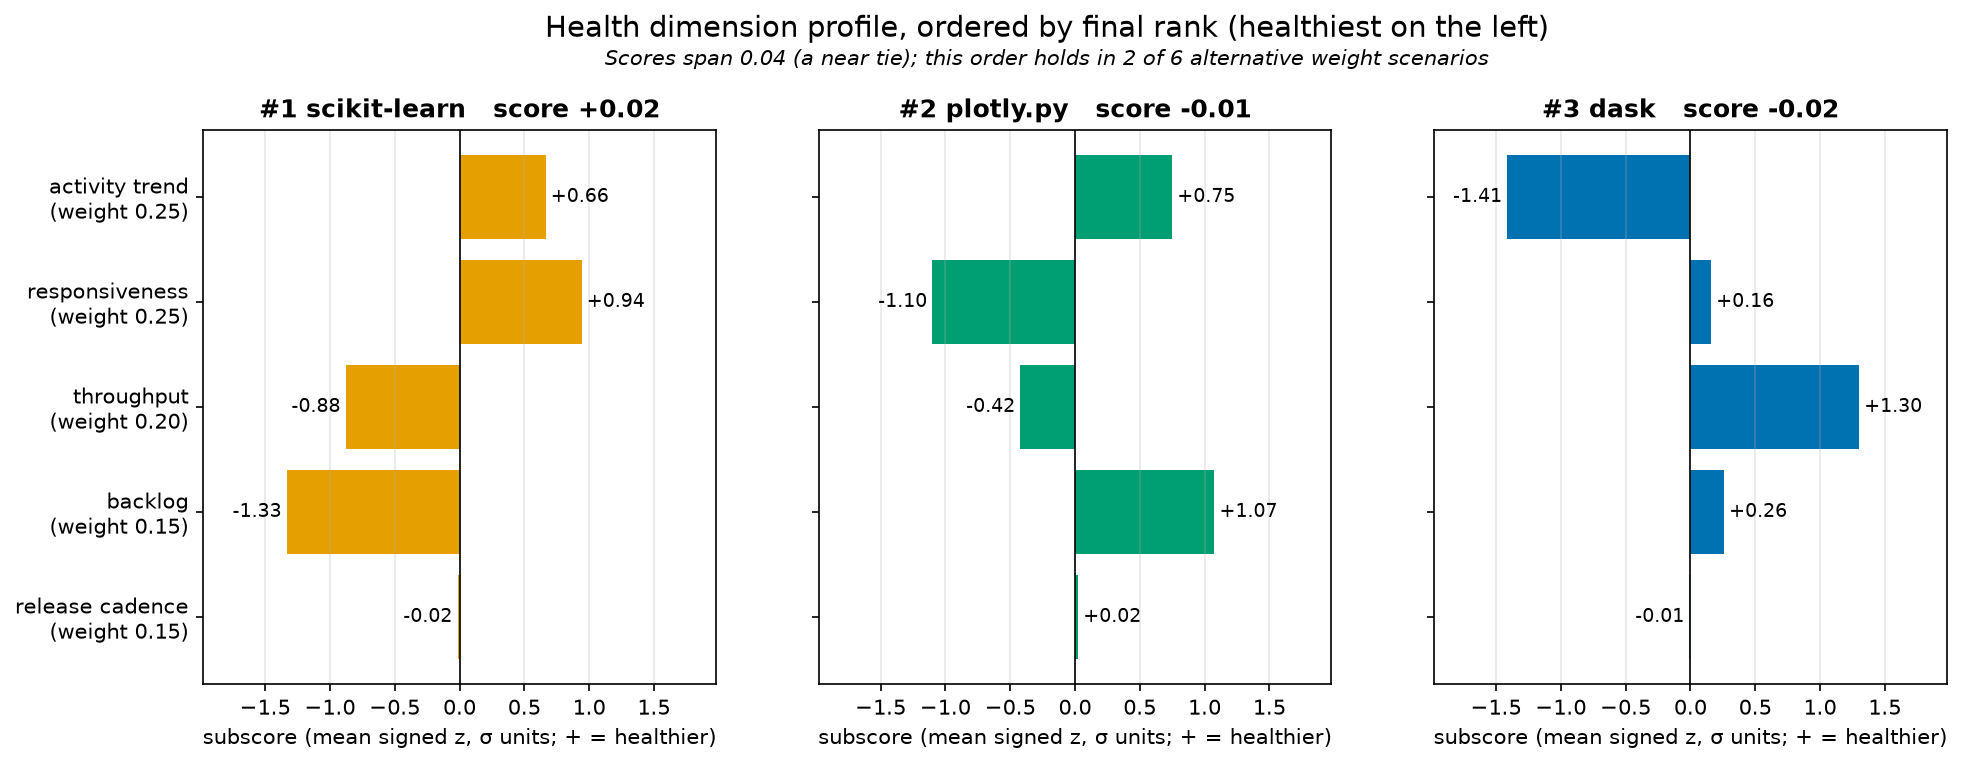
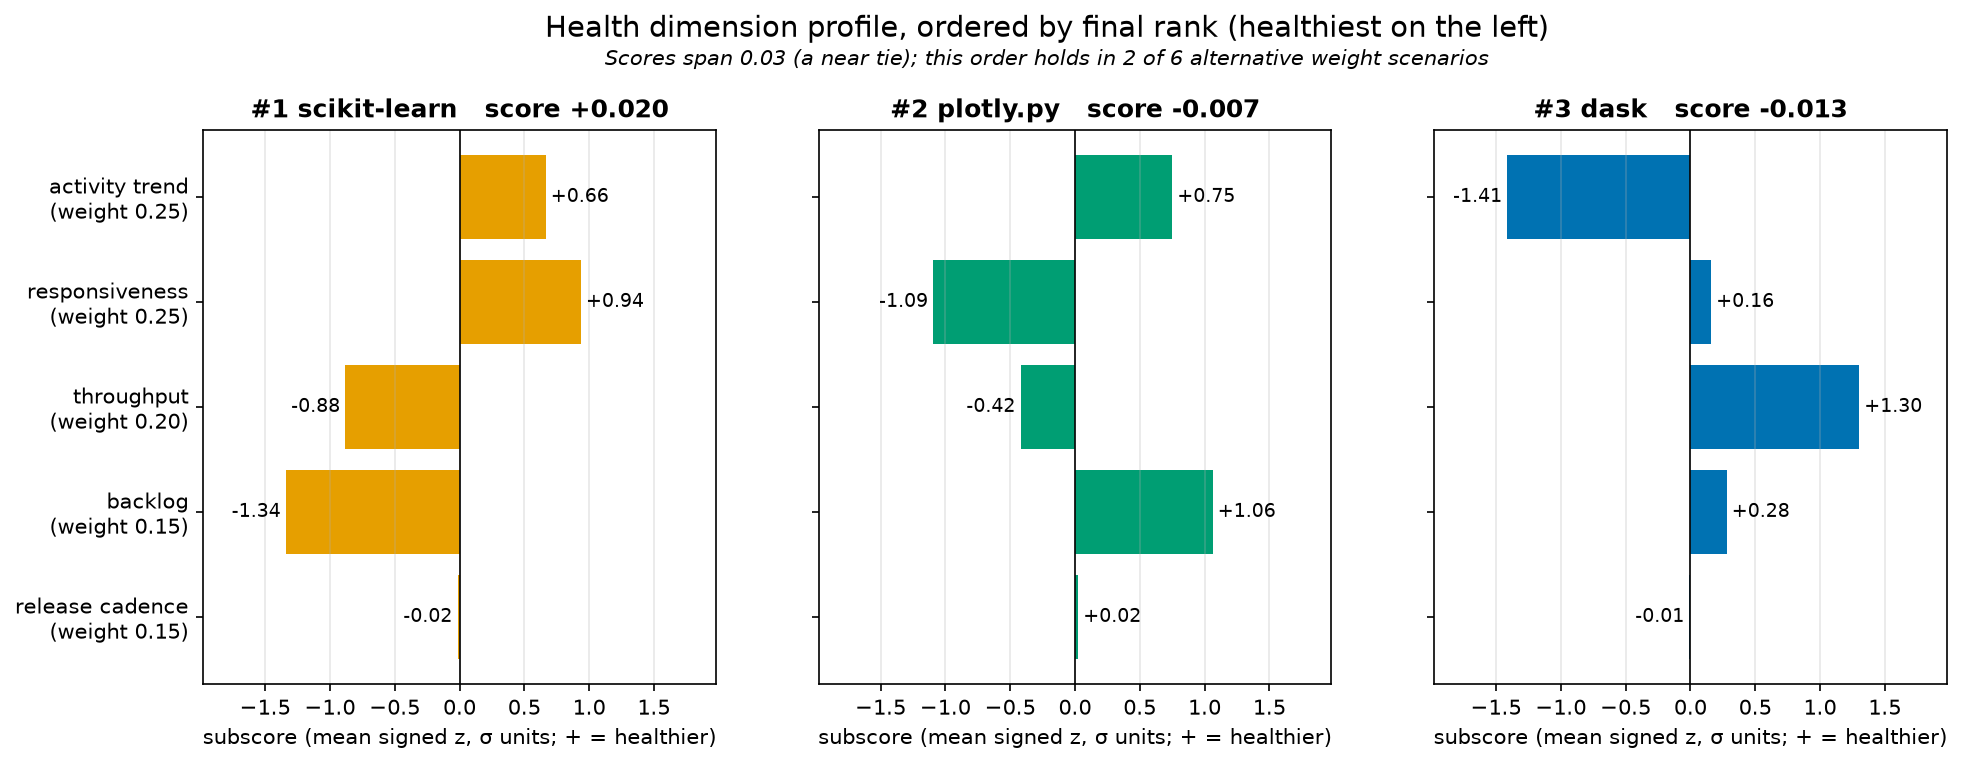
Audit fixes: API odometer, lock helper, dev-mode plot fix, 3-decimal scores, gitignore

diff --git a/main.py b/main.py
@@ -3,6 +3,7 @@ import json
 import logging
 import os
 import shutil
+import threading
 import time
 import warnings
 from datetime import UTC, datetime
@@ -14,8 +15,8 @@ import matplotlib
 import pandas as pd
 
 matplotlib.use("Agg")  # file-only backend: no display needed (WSL, Prefect workers)
-import matplotlib.dates as mdates  # noqa: E402  (must come after matplotlib.use)
-import matplotlib.pyplot as plt  # noqa: E402
+import matplotlib.dates as mdates  # must come after matplotlib.use
+import matplotlib.pyplot as plt
 from pandas.errors import Pandas4Warning
 from prefect import flow, get_run_logger, task
 from prefect.cache_policies import NO_CACHE
@@ -97,6 +98,16 @@ class TaskLog:
         self.file.error(msg, *args)
 
 
+def _explain_lock(exc: duckdb.IOException, log: TaskLog) -> None:
+    """Log the likely cause when DuckDB can't open the file because it is locked.
+
+    Only adds context; the caller still re-raises, so the task fails either way.
+    """
+    if "lock" in str(exc).lower():
+        log.error("%s is locked: the DuckDB CLI (or another process) may have it open. "
+                  "Close it and rerun.", DB_PATH.name)
+
+
 # ---------- Task 1 helpers: time ----------
 def _iso(ts: datetime) -> str:
     """Format a timestamp the way GitHub does: 2026-01-01T00:00:00Z (UTC)."""
@@ -112,6 +123,43 @@ def _utc_now() -> str:
 # ---------- Task 1 helpers: HTTP ----------
 class TransientHTTPError(Exception):
     """A GitHub failure worth retrying: 5xx, rate limits, network blips, truncated JSON."""
+
+
+class ApiOdometer:
+    """Counts every HTTP request sent to GitHub during one flow run, retries included.
+
+    Hooked into the httpx client (see extract), so each attempt is counted where it is sent;
+    no call site has to remember to count. The lock keeps counts exact if fetching ever runs
+    in parallel threads.
+    """
+
+    def __init__(self):
+        self._lock = threading.Lock()
+        self.reset()
+
+    def reset(self) -> None:
+        with self._lock:
+            self.requests = 0
+            self.by_status = {}
+
+    def on_request(self, request: httpx.Request) -> None:
+        with self._lock:
+            self.requests += 1
+
+    def on_response(self, response: httpx.Response) -> None:
+        with self._lock:
+            code = response.status_code
+            self.by_status[code] = self.by_status.get(code, 0) + 1
+
+    def summary(self) -> str:
+        with self._lock:
+            no_response = self.requests - sum(self.by_status.values())  # network errors, timeouts
+            statuses = ", ".join(f"{code}: {n}" for code, n in sorted(self.by_status.items()))
+            return (f"{self.requests} GitHub API requests this flow run "
+                    f"(by status: {statuses or 'none'}; no response: {no_response})")
+
+
+ODOMETER = ApiOdometer()  # one per process; the flow resets it at the start of each run
 
 
 def _retry_if_transient(task, task_run, state) -> bool:
@@ -276,9 +324,7 @@ def _load_watermarks(log: TaskLog) -> dict:
     except duckdb.CatalogException:
         return {}  # database exists but Task 2 has not created _load_state yet
     except duckdb.IOException as exc:
-        if "lock" in str(exc).lower():
-            log.error("%s is locked: the DuckDB CLI (or another process) may have it open. "
-                      "Close it and rerun.", DB_PATH.name)
+        _explain_lock(exc, log)
         raise
     return {(repo, endpoint): _iso(ts) for repo, endpoint, ts in rows if ts is not None}
 
@@ -432,6 +478,8 @@ def _update_load_state(con, endpoint: str, table: str, loaded_at: datetime) -> N
         GROUP BY repo
     """, [endpoint, loaded_at])
 
+
+# ---------- Tasks 1-2 ----------
 @task(name="1-extract")
 def extract() -> dict:
     """Task 1: land every page of commits, pulls, releases, and reviews into data/raw/."""
@@ -448,12 +496,14 @@ def extract() -> dict:
     watermarks = _load_watermarks(log)
     window_start = f"{START_DATE}T00:00:00Z"
     summary = {}
-    with httpx.Client(headers=_github_headers(), timeout=30) as client:
+    odometer_hooks = {"request": [ODOMETER.on_request], "response": [ODOMETER.on_response]}
+    with httpx.Client(headers=_github_headers(), timeout=30, event_hooks=odometer_hooks) as client:
         for repo in REPOS:
             summary[repo] = _extract_repo(client, repo, watermarks, window_start, log)
 
-    requests = sum(c["pages_fetched"] for counts in summary.values() for c in counts.values())
-    log.info("Extract finished: %d API requests this run", requests)
+    pages = sum(c["pages_fetched"] for counts in summary.values() for c in counts.values())
+    log.info("Extract finished: %d pages fetched this run (%d requests sent, retries included)",
+             pages, ODOMETER.requests)
     return summary
 
 
@@ -491,9 +541,7 @@ def load() -> dict:
                 counts[table] = after
             con.execute("COMMIT")
     except duckdb.IOException as exc:
-        if "lock" in str(exc).lower():
-            log.error("%s is locked: the DuckDB CLI (or another process) may have it open. "
-                      "Close it and rerun.", DB_PATH.name)
+        _explain_lock(exc, log)
         raise
 
     (RAW_DIR / "_LOADED").touch()
@@ -501,6 +549,7 @@ def load() -> dict:
     return counts
 
 
+# ---------- Task 3 ----------
 @task(name="3-dbt-build", cache_policy=NO_CACHE)
 def dbt_build() -> dict:
     """Task 3: run `dbt build` (models + tests); fail the flow if any node fails."""
@@ -530,9 +579,9 @@ def dbt_build() -> dict:
     return statuses
 
 
-# ---------- Tasks 4-5 shared helpers ----------
+# ---------- Tasks 4-6 shared helpers ----------
 def _connect_db(log: TaskLog) -> duckdb.DuckDBPyConnection:
-    """Open packages.duckdb for Tasks 4-5, in UTC like dbt's session.
+    """Open packages.duckdb for Tasks 4-6, in UTC like dbt's session.
 
     Not read_only: dbt-duckdb keeps its read-write connection open in this same process, and
     DuckDB refuses a second connection to the same file with a different configuration.
@@ -540,9 +589,7 @@ def _connect_db(log: TaskLog) -> duckdb.DuckDBPyConnection:
     try:
         con = duckdb.connect(str(DB_PATH))
     except duckdb.IOException as exc:
-        if "lock" in str(exc).lower():
-            log.error("%s is locked: the DuckDB CLI (or another process) may have it open. "
-                      "Close it and rerun.", DB_PATH.name)
+        _explain_lock(exc, log)
         raise
     try:
         con.execute("SET TimeZone = 'UTC'")  # same session zone as dbt, so week buckets line up
@@ -977,7 +1024,10 @@ def _plot_dimension_profile(ranking: pd.DataFrame, path: Path) -> Path:
     """Small-multiples bars: one panel per repo in rank order, one bar per scored dimension."""
     dims = list(DIMENSION_WEIGHTS)
     limit = ranking[dims].abs().to_numpy().max() * 1.4  # room for the value labels
-    fig, axes = plt.subplots(1, len(ranking), figsize=(15, 4.8), sharex=True, sharey=True)
+    # squeeze=False: always a 2-D array of axes, even with one repo (DEV_MODE), so zip() works.
+    fig, axes = plt.subplots(1, len(ranking), figsize=(15, 4.8), sharex=True, sharey=True,
+                             squeeze=False)
+    axes = axes[0]  # the single row of panels
 
     for ax, row in zip(axes, ranking.itertuples()):
         values = [getattr(row, dim) for dim in dims]
@@ -988,7 +1038,8 @@ def _plot_dimension_profile(ranking: pd.DataFrame, path: Path) -> Path:
                     va="center", ha="left" if v >= 0 else "right", fontsize=9)
         ax.axvline(0, color="black", linewidth=0.8)
         ax.set_xlim(-limit, limit)
-        ax.set_title(f"#{row.rank} {_short(row.repo)}   score {row.score:+.2f}", fontweight="bold")
+        # 3 decimals: the scores are a near tie, and 2 decimals made two repos look identical
+        ax.set_title(f"#{row.rank} {_short(row.repo)}   score {row.score:+.3f}", fontweight="bold")
         ax.set_xlabel("subscore (mean signed z, σ units; + = healthier)")
         ax.grid(axis="x", alpha=0.3)
 
@@ -1103,18 +1154,20 @@ def plot() -> dict:
 # ---------- Flow ----------
 @flow(name="bxp6yd-package-health-flow")
 def package_health_flow() -> None:
+    log = TaskLog("flow")
+    ODOMETER.reset()
     if DEV_MODE:
-        TaskLog("flow").warning(
-            "DEV_MODE is ON (start=%s, repos=%s). Set DEV_MODE = False before the final run.",
-            START_DATE,
-            REPOS,
-        )
-    extract()
-    load()
-    dbt_build()
-    validate()
-    model()
-    plot()
+        log.warning("DEV_MODE is ON (start=%s, repos=%s). Set DEV_MODE = False before the final run.",
+                    START_DATE, REPOS)
+    try:
+        extract()
+        load()
+        dbt_build()
+        validate()
+        model()
+        plot()
+    finally:  # runs on success, on a failed task, and on Ctrl-C, so every run reports its total
+        log.info("API odometer: %s", ODOMETER.summary())
 
 
 if __name__ == "__main__":
